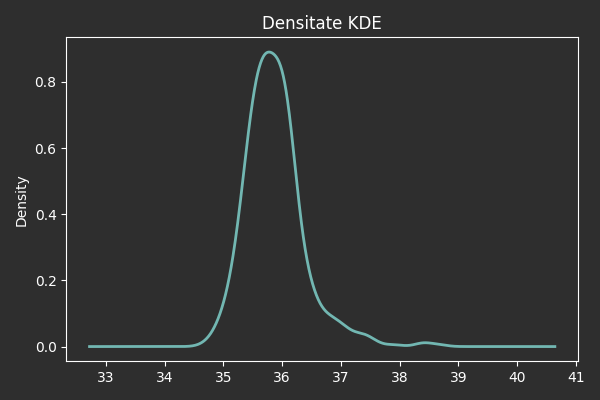
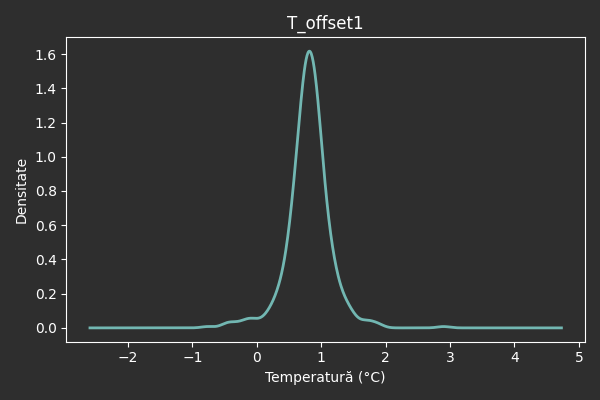
Updated some informations about the charts

diff --git a/analiza_flir.py b/analiza_flir.py
@@ -135,7 +135,7 @@ def index():
                     plt.plot(df_reg[selected_column], slope * df_reg[selected_column] + intercept, color='#F58518')
                     plt.xlabel(selected_column)
                     plt.ylabel(ref_choice)
-                    plt.title("Regresie liniară")
+                    plt.title(selected_column)
                     plt.tight_layout()
                     path = os.path.join('static', 'regression.png')
                     plt.savefig(path, facecolor='#2E2E2E')
@@ -147,7 +147,9 @@ def index():
                     ax = fig.gca()
                     ax.set_facecolor('#2E2E2E')
                     df_col.hist(bins=30, cumulative=True, density=True, color='#4C78A8', edgecolor='black')
-                    plt.title("Histogramă cumulativă")
+                    plt.title(selected_column)
+                    plt.xlabel("Temperatură (°C)")
+                    plt.ylabel("Frecvență cumulativă")
                     plt.tight_layout()
                     path = os.path.join('static', 'cumulativa.png')
                     plt.savefig(path, facecolor='#2E2E2E')
@@ -159,7 +161,9 @@ def index():
                     ax = fig.gca()
                     ax.set_facecolor('#2E2E2E')
                     df_col.plot(kind='kde', color='#72B7B2', linewidth=2, ax=ax)
-                    plt.title("Densitate KDE")
+                    plt.title(selected_column)
+                    plt.xlabel("Temperatură (°C)")
+                    plt.ylabel("Densitate")
                     plt.tight_layout()
                     path = os.path.join('static', 'densitate.png')
                     plt.savefig(path, facecolor='#2E2E2E')
